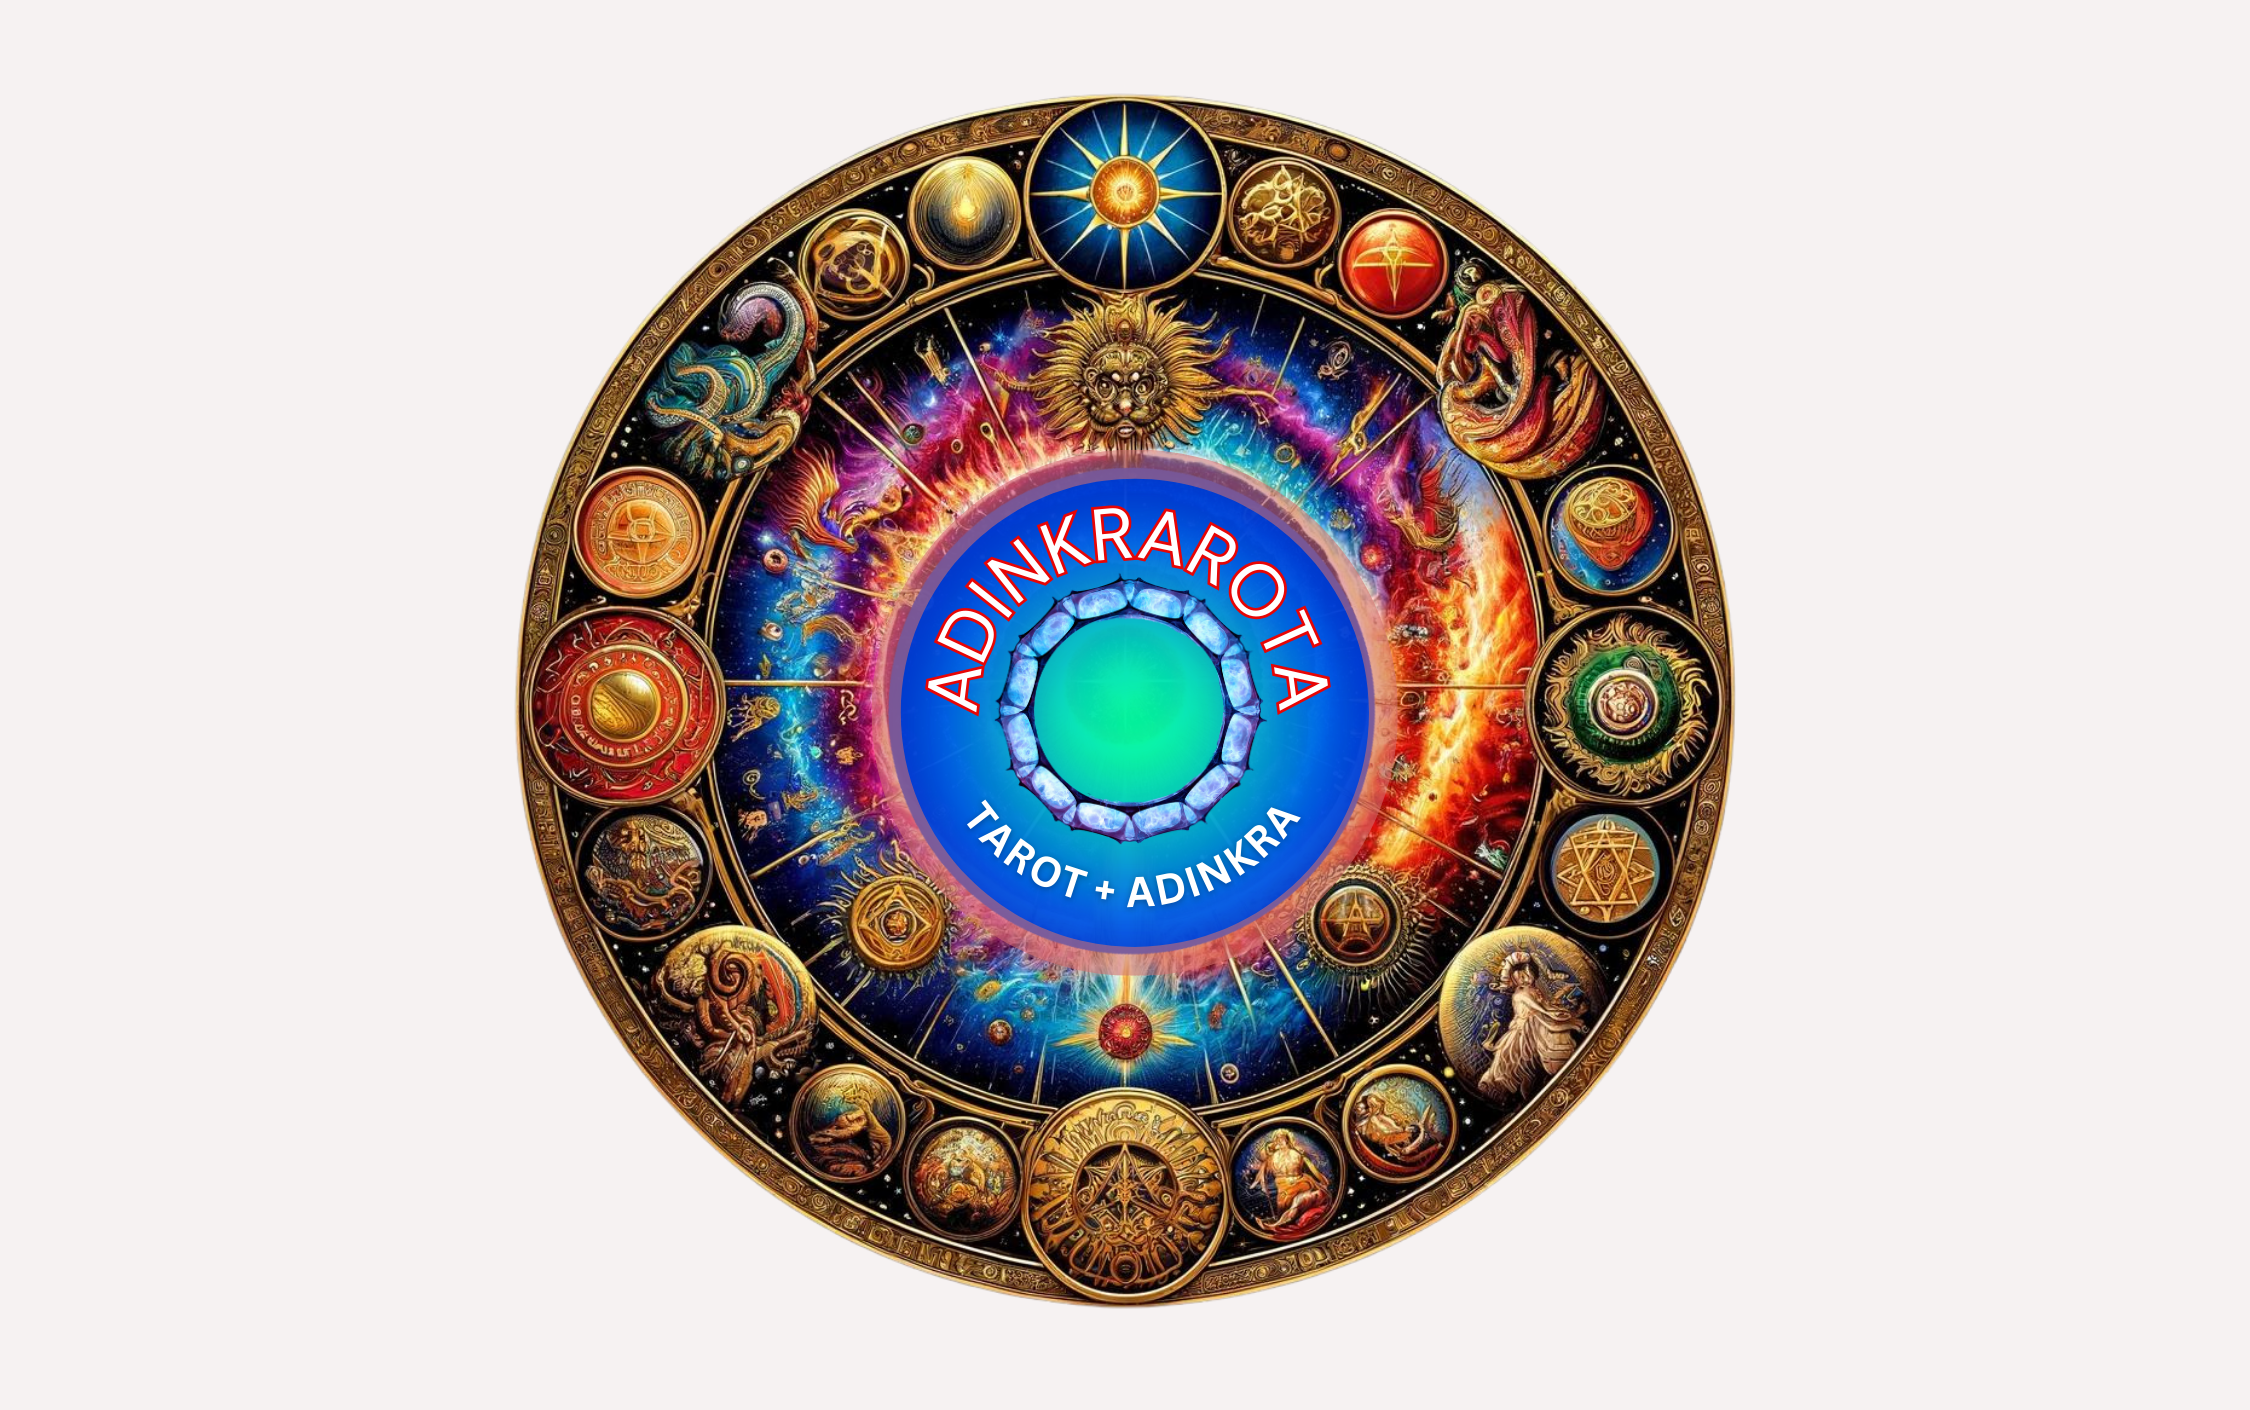
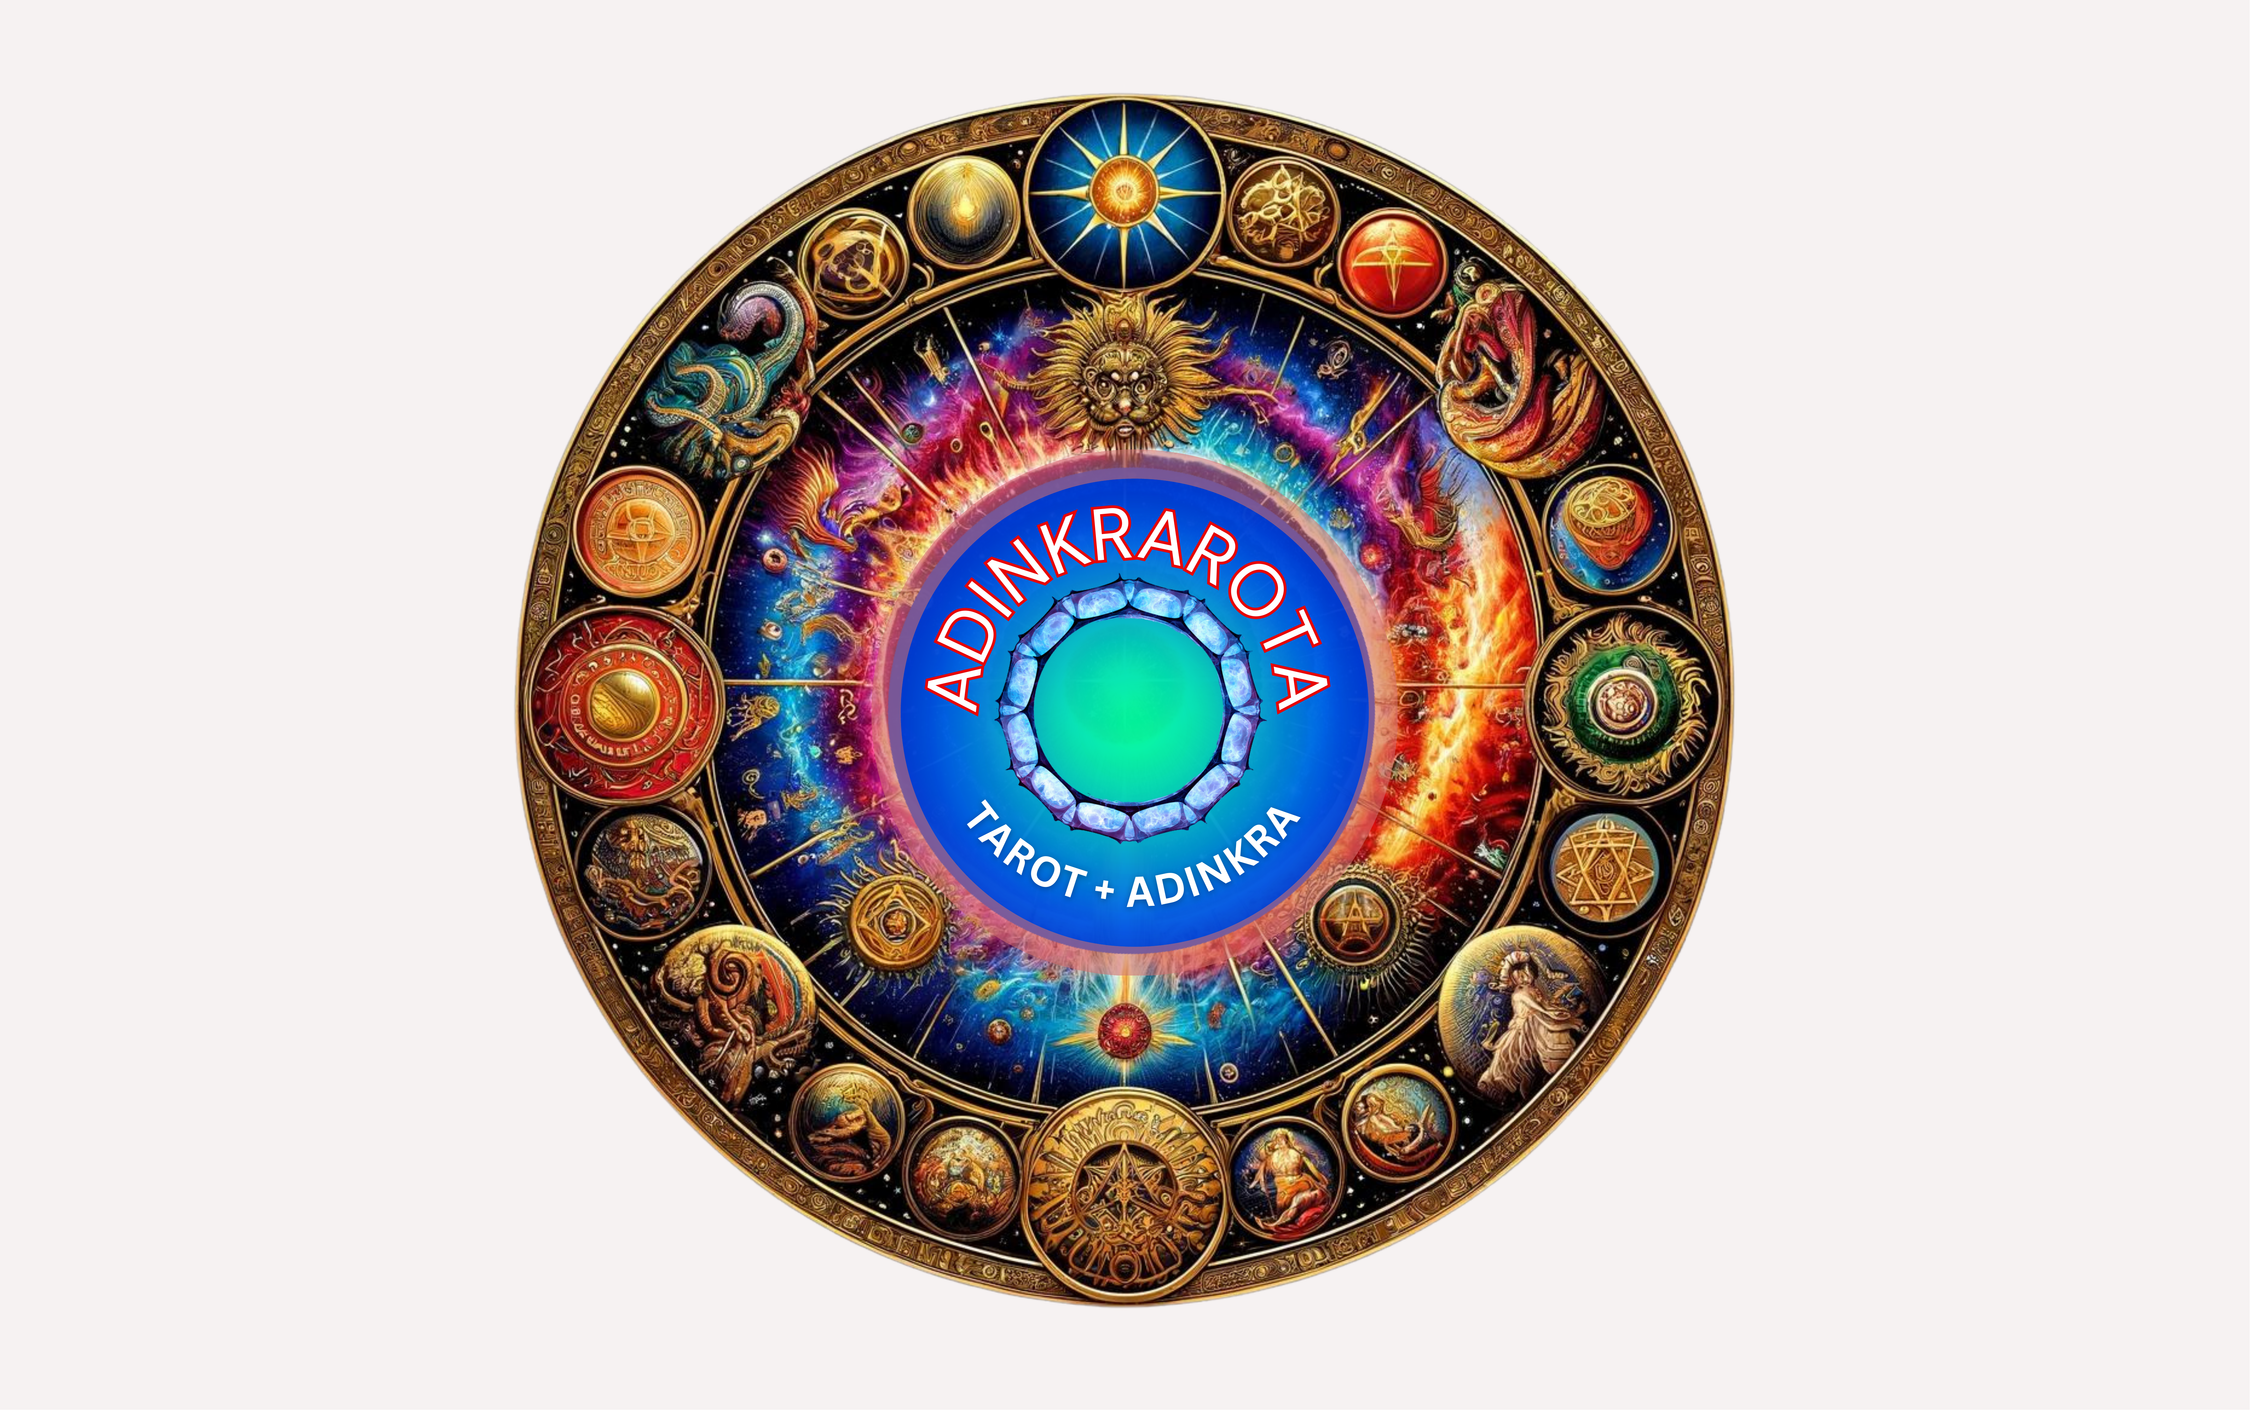
Rebuild hero wheels from source PDF with centered img layers

diff --git a/components/hero-section.tsx b/components/hero-section.tsx
@@ -3,7 +3,6 @@
 import { motion, useScroll, useTransform, useSpring } from "framer-motion";
 import { ChevronDown, BookOpen, Sparkles, RefreshCw } from "lucide-react";
 import { Button } from "@/components/ui/button";
-import Image from "next/image";
 import { useMouseParallax } from "@/hooks/use-parallax";
 import { FloatingElement } from "@/components/parallax-layers";
 import { useRef } from "react";
@@ -167,9 +166,9 @@ export function HeroSection({ onExplore, onReading, onSpinCycle }: HeroSectionPr
               transition={{ duration: 3, repeat: Infinity, ease: "easeInOut", delay: 1 }}
             />
             
-            {/* Both wheels share one image-space origin (hub at PNG center), not separate frames */}
+            {/* Portal wheels — centered on image midpoint (original img approach) */}
             <motion.div
-              className="absolute inset-0 overflow-hidden rounded-full"
+              className="absolute inset-0"
               animate={{ y: [-6, 6, -6] }}
               transition={{ duration: 4, repeat: Infinity, ease: "easeInOut" }}
               style={{
@@ -178,43 +177,36 @@ export function HeroSection({ onExplore, onReading, onSpinCycle }: HeroSectionPr
             >
               {/* Back wheel — 33% larger, clockwise */}
               <motion.div
-                className="absolute inset-0"
-                style={{ originX: "50%", originY: "50%" }}
-                animate={{ rotate: 360, scale: 1.33 }}
-                transition={{
-                  rotate: { duration: 90, repeat: Infinity, ease: "linear" },
-                  scale: { duration: 0 },
+                className="absolute inset-0 overflow-hidden rounded-full"
+                style={{
+                  filter: 'drop-shadow(0 0 30px rgba(233, 30, 140, 0.3)) drop-shadow(0 0 60px rgba(0, 184, 148, 0.2))',
                 }}
+                animate={{ rotate: 360 }}
+                transition={{ duration: 90, repeat: Infinity, ease: "linear" }}
               >
-                <Image
+                {/* eslint-disable-next-line @next/next/no-img-element */}
+                <img
                   src="/images/portal-wheel-circle.png"
                   alt=""
-                  fill
-                  className="object-contain object-center"
                   aria-hidden
+                  className="absolute top-1/2 left-1/2 h-[133%] w-auto max-w-none -translate-x-1/2 -translate-y-1/2"
                 />
               </motion.div>
 
               {/* Front wheel — smaller, see-through, counter-clockwise */}
               <motion.div
-                className="absolute inset-0 opacity-70"
+                className="absolute inset-0 overflow-hidden rounded-full opacity-70"
                 style={{
-                  originX: "50%",
-                  originY: "50%",
-                  filter: "drop-shadow(0 0 24px rgba(233, 30, 140, 0.25)) drop-shadow(0 0 48px rgba(0, 184, 148, 0.15))",
+                  filter: 'drop-shadow(0 0 20px rgba(0, 184, 148, 0.4)) brightness(1.08)',
                 }}
-                animate={{ rotate: -360, scale: 0.82 }}
-                transition={{
-                  rotate: { duration: 60, repeat: Infinity, ease: "linear" },
-                  scale: { duration: 0 },
-                }}
+                animate={{ rotate: -360 }}
+                transition={{ duration: 60, repeat: Infinity, ease: "linear" }}
               >
-                <Image
+                {/* eslint-disable-next-line @next/next/no-img-element */}
+                <img
                   src="/images/portal-wheel-circle.png"
                   alt="ADINKRAROTA - Tarot + Adinkra Portal"
-                  fill
-                  className="object-contain object-center"
-                  priority
+                  className="absolute top-1/2 left-1/2 h-[82%] w-auto max-w-none -translate-x-1/2 -translate-y-1/2"
                 />
               </motion.div>
             </motion.div>
